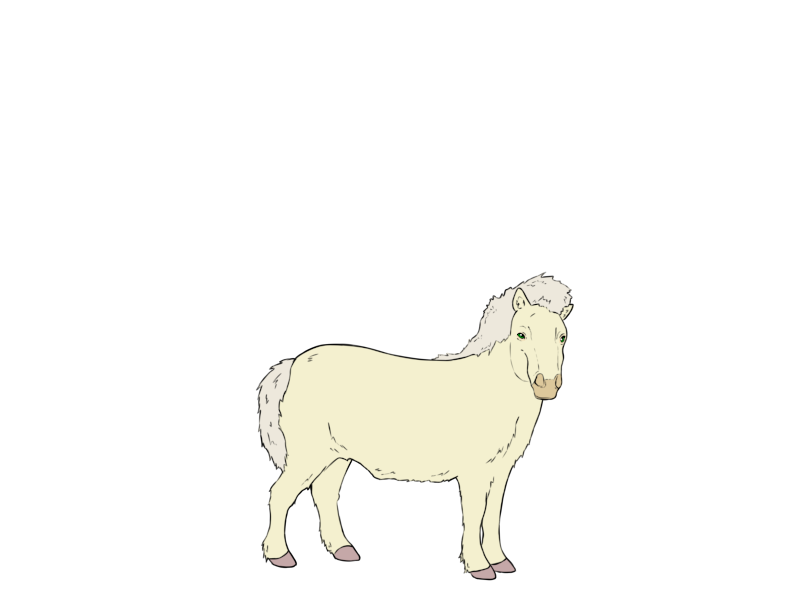
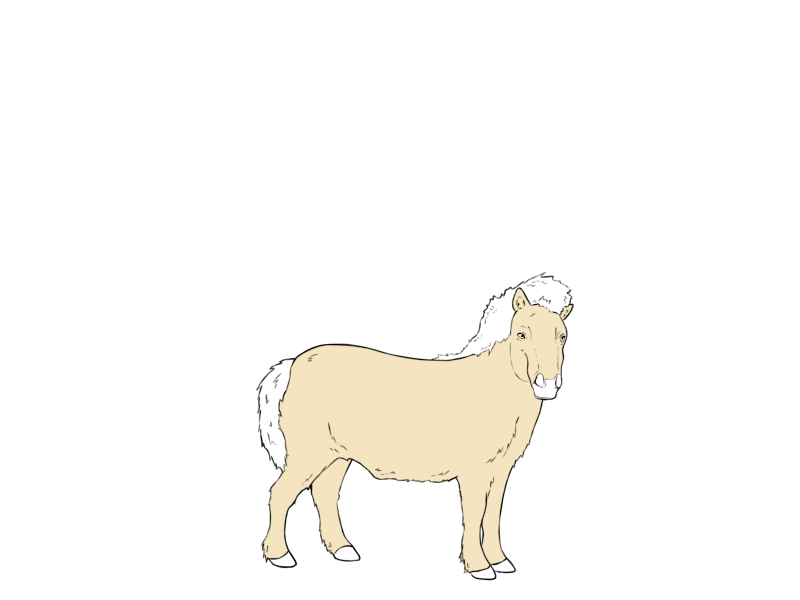
couleurs diluées

diff --git a/database/seeds/CouleurImageTableSeeder.php b/database/seeds/CouleurImageTableSeeder.php
@@ -1497,6 +1497,110 @@ class CouleurImageTableSeeder extends Seeder
                 'created_at' => NULL,
                 'updated_at' => NULL,
             ),
+            185 => 
+            array (
+                'id' => 226,
+                'couleur_id' => 10,
+                'image_id' => 102,
+                'created_at' => NULL,
+                'updated_at' => NULL,
+            ),
+            186 => 
+            array (
+                'id' => 227,
+                'couleur_id' => 167,
+                'image_id' => 102,
+                'created_at' => NULL,
+                'updated_at' => NULL,
+            ),
+            187 => 
+            array (
+                'id' => 228,
+                'couleur_id' => 172,
+                'image_id' => 163,
+                'created_at' => NULL,
+                'updated_at' => NULL,
+            ),
+            188 => 
+            array (
+                'id' => 229,
+                'couleur_id' => 39,
+                'image_id' => 164,
+                'created_at' => NULL,
+                'updated_at' => NULL,
+            ),
+            189 => 
+            array (
+                'id' => 230,
+                'couleur_id' => 180,
+                'image_id' => 164,
+                'created_at' => NULL,
+                'updated_at' => NULL,
+            ),
+            190 => 
+            array (
+                'id' => 231,
+                'couleur_id' => 26,
+                'image_id' => 165,
+                'created_at' => NULL,
+                'updated_at' => NULL,
+            ),
+            191 => 
+            array (
+                'id' => 232,
+                'couleur_id' => 183,
+                'image_id' => 165,
+                'created_at' => NULL,
+                'updated_at' => NULL,
+            ),
+            192 => 
+            array (
+                'id' => 233,
+                'couleur_id' => 11,
+                'image_id' => 165,
+                'created_at' => NULL,
+                'updated_at' => NULL,
+            ),
+            193 => 
+            array (
+                'id' => 234,
+                'couleur_id' => 11,
+                'image_id' => 102,
+                'created_at' => NULL,
+                'updated_at' => NULL,
+            ),
+            194 => 
+            array (
+                'id' => 235,
+                'couleur_id' => 168,
+                'image_id' => 102,
+                'created_at' => NULL,
+                'updated_at' => NULL,
+            ),
+            195 => 
+            array (
+                'id' => 236,
+                'couleur_id' => 168,
+                'image_id' => 165,
+                'created_at' => NULL,
+                'updated_at' => NULL,
+            ),
+            196 => 
+            array (
+                'id' => 237,
+                'couleur_id' => 26,
+                'image_id' => 102,
+                'created_at' => NULL,
+                'updated_at' => NULL,
+            ),
+            197 => 
+            array (
+                'id' => 238,
+                'couleur_id' => 183,
+                'image_id' => 102,
+                'created_at' => NULL,
+                'updated_at' => NULL,
+            ),
         ));
         
         

diff --git a/database/seeds/ImagesTableSeeder.php b/database/seeds/ImagesTableSeeder.php
@@ -1201,7 +1201,7 @@ class ImagesTableSeeder extends Seeder
                 'id' => 141,
                 'chemin' => 'champagneambre2',
                 'extension' => 'png',
-                'z_index' => 16,
+                'z_index' => 20,
                 'created_at' => NULL,
                 'updated_at' => NULL,
             ),
@@ -1373,6 +1373,33 @@ class ImagesTableSeeder extends Seeder
                 'chemin' => 'yeuxbleus',
                 'extension' => 'png',
                 'z_index' => 32,
+                'created_at' => NULL,
+                'updated_at' => NULL,
+            ),
+            151 => 
+            array (
+                'id' => 163,
+                'chemin' => 'rmalezandil',
+                'extension' => 'png',
+                'z_index' => 30,
+                'created_at' => NULL,
+                'updated_at' => NULL,
+            ),
+            152 => 
+            array (
+                'id' => 164,
+                'chemin' => 'museauchampagne',
+                'extension' => 'png',
+                'z_index' => 29,
+                'created_at' => NULL,
+                'updated_at' => NULL,
+            ),
+            153 => 
+            array (
+                'id' => 165,
+                'chemin' => 'museaurose',
+                'extension' => 'png',
+                'z_index' => 31,
                 'created_at' => NULL,
                 'updated_at' => NULL,
             ),

diff --git a/app/Http/Controllers/ReproductionController.php b/app/Http/Controllers/ReproductionController.php
@@ -505,7 +505,8 @@ class ReproductionController extends Controller
                     if ($base == 'alezan aa' || $base == 'alezan agouti')
                     {
                       $mushroom = Couleur::where('nom','mushroom')->first();
-                      if (in_array($mushroom, $dilue_couleurs))
+                      $champagne = Couleur::where('nom','champagneor')->first();
+                      if (in_array($mushroom, $dilue_couleurs) || in_array($champagne, $dilue_couleurs))
                       {
                       $image = Image::where('chemin','crinsblancs')->first();
                       $animal->Image()->attach($image->id);
